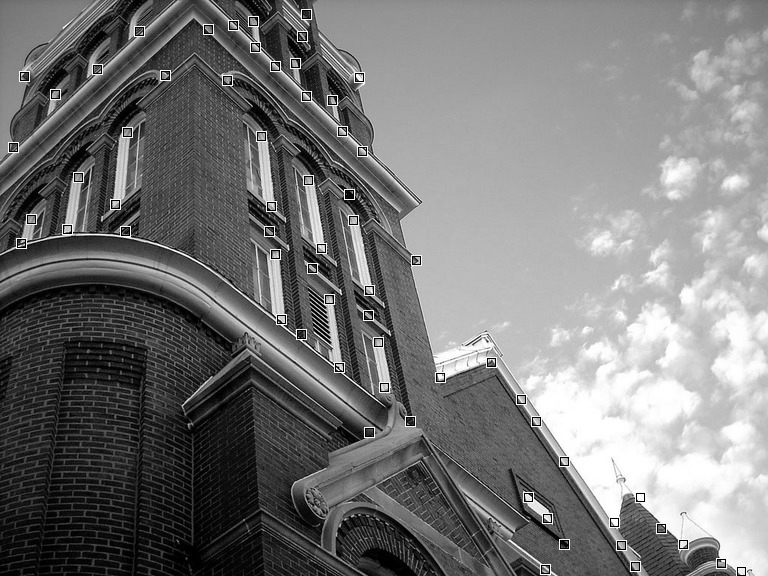
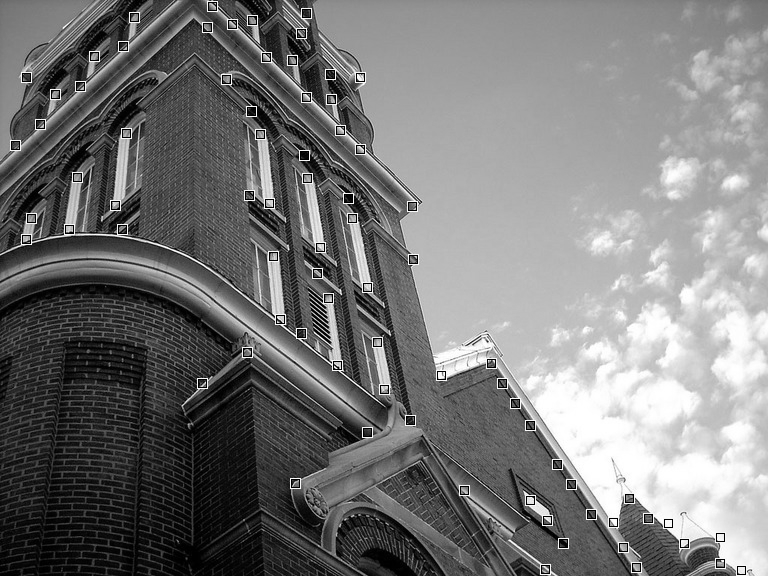
just adding analysis now

diff --git a/report.html b/report.html
@@ -10,13 +10,16 @@
 email: <a href="mailto:jjl5sw@virginia.edu">jjl5sw@cs.virginia.edu</a><br>
 
 <hr>
-<font size="+3">Computer Vision: Assignment 1</font><br>
-<font size="+2">Edge and corner detectors</font>
+<font color = "#7C27CB" size="+3">Computer Vision: Assignment 1</font><br>
+<font color = "#7C27CB" size="+2">Edge, Corner, and SIFT Feature Detectors</font>
 
      
 
-<p>This assignment's goal was to demonstrate the proper extraction of certain features in images. The assigment is broken down into 3 steps:<br>
-1. Edge Detection</p>
+<p>This assignment's goal was to demonstrate the proper extraction of certain features in images. The assigment is broken down into 3 steps:<br><br>
+<strong>1. Edge Detection<strong><br>
+
+<strong>2. Corner Detection<strong><br>
+<strong>3. SIFT Feature Extractor<strong><br> </p>
 
       
      
@@ -26,16 +29,24 @@ email: <a href="mailto:jjl5sw@virginia.edu">jjl5sw@cs.virginia.edu</a><br>
      <font color="#336699" size="+5">Mandrill</font>
      <br>
      <strong>Parameters:</strong><br>
-      &#963; = 2.0<br>
-      &#964;<sub>h</sub> = 1.5<br>
-      &#964;<sub>l</sub> = 0.8<br>
-      Corner neighborhood = 5x5<br>
-      &#955;<sub>2</sub> threshold = 0.5<br>
+      &#963; = 3.5<br>
+      &#964;<sub>h</sub> = 0.3<br>
+      &#964;<sub>l</sub> = 0.15<br>
+      Corner neighborhood = 7x7<br>
+      &#955;<sub>2</sub> threshold = 0.3<br>
       SIFT Low Contrast Thresh: 0.009<br>
       SIFT Initial Sigma Val: 1.6<br>
       SIFT Octaves: 4<br>
       SIFT Scales: 5<br>
-     
+
+
+      <br>
+      <strong>Analysis:</strong><br>
+      The Mandrill image is a good example for edges and corners because there aren't very well defined lines and corners, but there are 
+          obvious features of the Mandrill that should be extracted from an edge and corner detector. It is important to set the sigma value in the Gaussian blur semi
+          large because of the hair on the Mandrill. Since we do not want every hair to trigger the edge or corner detector, it should be blurred so that the
+          hair looks coninuous.
+      <br>
       <div class="row">
         <div class="large-12 columns">
         <div id="slider">
@@ -96,7 +107,7 @@ email: <a href="mailto:jjl5sw@virginia.edu">jjl5sw@cs.virginia.edu</a><br>
 
         <div class="large-4 columns">
           <br>
-          <strong>All Extrema Points:</strong>
+          <strong>SIFT Extrema Points:</strong>
           <br>
           <img src="./Mandrill/extrema.png"/>
         </div>
@@ -104,7 +115,7 @@ email: <a href="mailto:jjl5sw@virginia.edu">jjl5sw@cs.virginia.edu</a><br>
 
         <div class="large-4 columns">
           <br>
-          <strong>Keypoint Localized Extrema Points:</strong>
+          <strong>SIFT Keypoint Localized Extrema Points:</strong>
           <br>
           <img src="./Mandrill/localizedExtrema.png"/>
         </div>
@@ -112,32 +123,35 @@ email: <a href="mailto:jjl5sw@virginia.edu">jjl5sw@cs.virginia.edu</a><br>
 
         <div class="large-4 columns">
           <br>
-          <strong>Edge Eliminated and Low Contrast Filtered Extrema Points:</strong>
+          <strong>SIFT Edge Eliminated and Low Contrast Filtered Extrema Points:</strong>
           <br>
           <img src="./Mandrill/filteredLocalizedExtrema.png"/>
-          <h4>This is a content section.</h4>
-          <p>Bacon ipsum dolor sit amet nulla ham qui sint exercitation eiusmod commodo, chuck duis velit. Aute in reprehenderit, dolore aliqua non est magna in labore pig pork biltong. Eiusmod swine spare ribs reprehenderit culpa. Boudin aliqua adipisicing rump corned beef.</p>
         </div>
       
         </div>
 
 
-
+     <br>
      <hr>
+     <br>
 
      <font color="#336699" size="+5">Building</font>
      <br>
      <strong>Parameters:</strong><br>
-      &#963; = 2.0<br>
-      &#964;<sub>h</sub> = 1.5<br>
-      &#964;<sub>l</sub> = 0.8<br>
+      &#963; = 3.2<br>
+      &#964;<sub>h</sub> = 0.3<br>
+      &#964;<sub>l</sub> = 0.15<br>
       Corner neighborhood = 9x9<br>
-      &#955;<sub>2</sub> threshold = 400<br>
+      &#955;<sub>2</sub> threshold = 1<br>
       SIFT Low Contrast Thresh: 0.009<br>
       SIFT Initial Sigma Val: 1.6<br>
       SIFT Octaves: 4<br>
       SIFT Scales: 5<br>
      
+      <br>
+      <strong>Analysis:</strong><br>
+      The Building Image
+      <br>
       <div class="row">
         <div class="large-12 columns">
         <div id="slider">
@@ -199,7 +213,7 @@ email: <a href="mailto:jjl5sw@virginia.edu">jjl5sw@cs.virginia.edu</a><br>
 
         <div class="large-4 columns">
           <br>
-          <strong>All Extrema Points:</strong>
+          <strong>SIFT Extrema Points:</strong>
           <br>
           <img src="./Building/extrema.png"/>
         </div>
@@ -207,7 +221,7 @@ email: <a href="mailto:jjl5sw@virginia.edu">jjl5sw@cs.virginia.edu</a><br>
 
         <div class="large-4 columns">
           <br>
-          <strong>Keypoint Localized Extrema Points:</strong>
+          <strong>SIFT Keypoint Localized Extrema Points:</strong>
           <br>
           <img src="./Building/localizedExtrema.png"/>
         </div>
@@ -215,11 +229,9 @@ email: <a href="mailto:jjl5sw@virginia.edu">jjl5sw@cs.virginia.edu</a><br>
 
         <div class="large-4 columns">
           <br>
-          <strong>Edge Eliminated and Low Contrast Filtered Extrema Points:</strong>
+          <strong>SIFT Edge Eliminated and Low Contrast Filtered Extrema Points:</strong>
           <br>
           <img src="./Building/filteredLocalizedExtrema.png"/>
-          <h4>This is a content section.</h4>
-          <p>Bacon ipsum dolor sit amet nulla ham qui sint exercitation eiusmod commodo, chuck duis velit. Aute in reprehenderit, dolore aliqua non est magna in labore pig pork biltong. Eiusmod swine spare ribs reprehenderit culpa. Boudin aliqua adipisicing rump corned beef.</p>
         </div>
       
 
@@ -290,8 +302,14 @@ email: <a href="mailto:jjl5sw@virginia.edu">jjl5sw@cs.virginia.edu</a><br>
           <strong>Corners:</strong>
           <br>
           <img src="./Checker/corners.png"/>
-          <h4>This is a content section.</h4>
-          <p>Bacon ipsum dolor sit amet nulla ham qui sint exercitation eiusmod commodo, chuck duis velit. Aute in reprehenderit, dolore aliqua non est magna in labore pig pork biltong. Eiusmod swine spare ribs reprehenderit culpa. Boudin aliqua adipisicing rump corned beef.</p>
+        </div>
+
+
+        <div class="large-4 columns">
+          <br>
+          <strong>SIFT Edge Eliminated and Low Contrast Filtered Extrema Points:</strong>
+          <br>
+          <img src="./Checker/filteredLocalizedExtrema.png"/>
         </div>
   
         <br>

diff --git a/edgeDetector.py b/edgeDetector.py
@@ -14,34 +14,29 @@ import math
 ###Filtered gradient:###
 ########################
 
-picture = '/LakeGeorge'
+sigma = 3
+T_h = 0.3
+T_l = 0.15
+
+picture = '/Building'
 folder = os.getcwd()+picture
 img = skimage.img_as_float(skimage.io.imread(folder +picture+ '.png'))
+I = np.dot(img[...,:3], [0.299, 0.587, 0.144]) #Greyscale Image
 
 
+# CREATE GAUSSIAN FOR CONVOLUTION
+w = 1 + (int(6*sigma))
+Gaussian = np.zeros((w,w))
+k = 0
+for x in range(w):
+    for y in range(w):
+        Gaussian[x,y] = math.exp(-0.5 * ( math.pow((x-w/2)/sigma, 2.0) + math.pow((y-w/2)/sigma, 2.0)))/(2*math.pi*sigma*sigma)
+        k += G[x,y]       
+for x in range(w):
+    for y in range(w):
+        Gaussian[x,y] /= k;     
 
-I = np.dot(img[...,:3], [0.299, 0.587, 0.144])
-
-
-def GaussianKernel(sigma):
-    width = 1 + 2*(int(3.0*sigma))
-    mean = width/2
-    kernel = np.zeros((width,width))
-    sum = 0
-    for x in range(width):
-        for y in range(width):
-            kernel[x,y] = math.exp(-0.5 * ( math.pow((x-mean)/sigma, 2.0) + math.pow((y-mean)/sigma, 2.0)))/(2*math.pi*sigma*sigma)
-            sum += kernel[x,y]
-    # normalize        
-    for x in range(width):
-        for y in range(width):
-            kernel[x,y] /= sum;      
-    return kernel
-
-
-##2.## Find the x and y components of the gradient Fx and Fy of the image smoothed with a Gaussian.
-Gaussian = GaussianKernel(1.5)
-
+#BLUR IMAGE
 try:
 	blurImg = scipy.signal.convolve2d(I, Gaussian, mode = 'same',boundary = 'symm')
 except:
@@ -50,10 +45,12 @@ except:
 
 #plt.imshow(blurImg, cmap = plt.get_cmap('gray'));plt.show()
 
+
+#################FILTERED GRADIENT#################
 #Sobel filter values
+print('Computing Filtered Gradient...')
 Kgx = np.array([[ -1, 0, 1], [-2,0,2], [-1,0,1]])
 Kgy = np.array([[1,2,1], [0,0,0], [-1,-2,-1]])
-
 
 Fx = scipy.signal.convolve2d(blurImg, Kgx,mode='same',boundary = 'symm')
 Fy = scipy.signal.convolve2d(blurImg, Kgy,mode='same',boundary = 'symm')
@@ -62,7 +59,6 @@ skimage.io.imsave(folder + '/verticalGradient.png', Fy)
 #plt.imshow(Fx, cmap = plt.get_cmap('gray')); plt.show()
 #plt.imshow(dx, cmap = plt.get_cmap('gray'))
  
-
 ##3.## Compute the edge strength F (the magnitude of the gradient) and edge orientation D = arctan(Fy/Fx) at each pixel.
 F = np.absolute(Fx) + np.absolute(Fy)
 #plt.imshow(F, cmap = plt.get_cmap('gray')); plt.show()
@@ -130,8 +126,7 @@ scipy.misc.imsave(folder + '/edgeStrength.png', I)
 ######################################
 ###### Hysteresis thresholding: ######
 ######################################
-T_h = 0.4
-T_l = 0.2
+
 
 iMask = [[0 for x in range(len(D[0]))] for y in range(len(D))]				
 stack = [] 

diff --git a/sift.py b/sift.py
@@ -22,7 +22,7 @@ initialSigma = 1.6
 ###########################################################
 #################### Load Images ##########################
 ###########################################################
-picture = 'LakeGeorge'
+picture = 'Checker'
 folder = os.getcwd()+'/'+picture
 img = skimage.img_as_float(skimage.io.imread(folder +'/'+picture+ '.png'))
 
@@ -116,13 +116,13 @@ for octave in range(0,octaves):
 
 
 						### KEYPOINT LOCALIZATION ###
-						dxx = DoGPyramid[octave,scale][x,y+1] + DoGPyramid[octave,scale][x,y-1] - 2.0 * DoGPyramid[octave,scale][x,y]
-						dyy = DoGPyramid[octave,scale][x+1,y] + DoGPyramid[octave,scale][x-1,y] - 2.0 * DoGPyramid[octave,scale][x,y]
-						dss = DoGPyramid[octave,scale+1][x,y] + DoGPyramid[octave,scale-1][x,y] - 2.0 * DoGPyramid[octave,scale][x,y]
-						dxy = (DoGPyramid[octave,scale][x+1,y+1]+DoGPyramid[octave,scale][x-1,y-1]-DoGPyramid[octave,scale][x-1,y+1]-DoGPyramid[octave,scale][x+1,y-1])/4.0
-						dxs = (DoGPyramid[octave,scale+1][x,y+1]+DoGPyramid[octave,scale-1][x,y-1]-DoGPyramid[octave,scale-1][x,y+1]-DoGPyramid[octave,scale+1][x,y-1])/4.0
-						dys = (DoGPyramid[octave,scale+1][x+1,y]+DoGPyramid[octave,scale-1][x-1,y]-DoGPyramid[octave,scale-1][x+1,y]-DoGPyramid[octave,scale+1][x-1,y])/4.0
-						Hess = [[dxx,dxy,dxs],[dxy,dyy,dys],[dxs,dys,dss]]
+						Dxx = DoGPyramid[octave,scale][x,y+1] + DoGPyramid[octave,scale][x,y-1] - 2.0 * DoGPyramid[octave,scale][x,y]
+						Dyy = DoGPyramid[octave,scale][x+1,y] + DoGPyramid[octave,scale][x-1,y] - 2.0 * DoGPyramid[octave,scale][x,y]
+						Dss = DoGPyramid[octave,scale+1][x,y] + DoGPyramid[octave,scale-1][x,y] - 2.0 * DoGPyramid[octave,scale][x,y]
+						Dxy = (DoGPyramid[octave,scale][x+1,y+1]+DoGPyramid[octave,scale][x-1,y-1]-DoGPyramid[octave,scale][x-1,y+1]-DoGPyramid[octave,scale][x+1,y-1])/4.0
+						Dxs = (DoGPyramid[octave,scale+1][x,y+1]+DoGPyramid[octave,scale-1][x,y-1]-DoGPyramid[octave,scale-1][x,y+1]-DoGPyramid[octave,scale+1][x,y-1])/4.0
+						Dys = (DoGPyramid[octave,scale+1][x+1,y]+DoGPyramid[octave,scale-1][x-1,y]-DoGPyramid[octave,scale-1][x+1,y]-DoGPyramid[octave,scale+1][x-1,y])/4.0
+						Hess = [[Dxx,Dxy,Dxs],[Dxy,Dyy,Dys],[Dxs,Dys,Dss]]
 
 						dx = (DoGPyramid[octave,scale][x,y+1] - DoGPyramid[octave,scale][x,y-1])/2.0
 						dy = (DoGPyramid[octave,scale][x+1,y] - DoGPyramid[octave,scale][x-1,y])/2.0

diff --git a/cornerDetector.py b/cornerDetector.py
@@ -12,33 +12,40 @@ import numpy as np
 import math
 from scipy import linalg
 
-sigma = 2
-winRange = 3
-smallEigThreshold = 0.65
+########################
+####### Parameters #####
+########################
+sigma = 3.2
+winRange = 4
+smallEigThreshold = 1
 
-picture = 'LakeGeorge'
+
+########################
+####### Load Image #####
+########################
+picture = 'Building'
 folder = os.getcwd()+'/'+picture
 img = skimage.img_as_float(skimage.io.imread(folder +'/'+picture+ '.png'))
-
-#greyscale img
-I = np.dot(img[...,:3], [0.299, 0.587, 0.144])
-
-def GaussianKernel(sigma):
-    width = 1 + 2*(int(3.0*sigma))
-    kernel = np.zeros((width,width))
-    k = 0
-    for x in range(width):
-        for y in range(width):
-            kernel[x,y] = math.exp(-0.5 * ( math.pow((x-width/2)/sigma, 2.0) + math.pow((y-width/2)/sigma, 2.0)))/(2*math.pi*sigma*sigma)
-            k += kernel[x,y]       
-    for x in range(width):
-        for y in range(width):
-            kernel[x,y] /= k;      
-    return kernel
+I = np.dot(img[...,:3], [0.299, 0.587, 0.144]) #Greyscale Image
 
 
-Gaussian = GaussianKernel(sigma)
+########################
+###Filtered gradient:###
+########################
 
+# CREATE GAUSSIAN FOR CONVOLUTION
+w = 1 + (int(6*sigma))
+Gaussian = np.zeros((w,w))
+k = 0
+for x in range(w):
+    for y in range(w):
+        Gaussian[x,y] = math.exp(-0.5 * ( math.pow((x-w/2)/sigma, 2.0) + math.pow((y-w/2)/sigma, 2.0)))/(2*math.pi*sigma*sigma)
+        k += G[x,y]       
+for x in range(w):
+    for y in range(w):
+        Gaussian[x,y] /= k;      
+
+#BLUR IMAGE
 try:
 	blurImg = scipy.signal.convolve2d(I, Gaussian, mode = 'same',boundary = 'symm')
 except:
@@ -148,7 +155,3 @@ for i in range(0,len(L_COORD_OUTPUT)):
 					pass
 #plt.imshow(I, cmap = plt.get_cmap('gray')); plt.show()
 scipy.misc.imsave(folder + '/corners.png', I)
-
-
-
-
